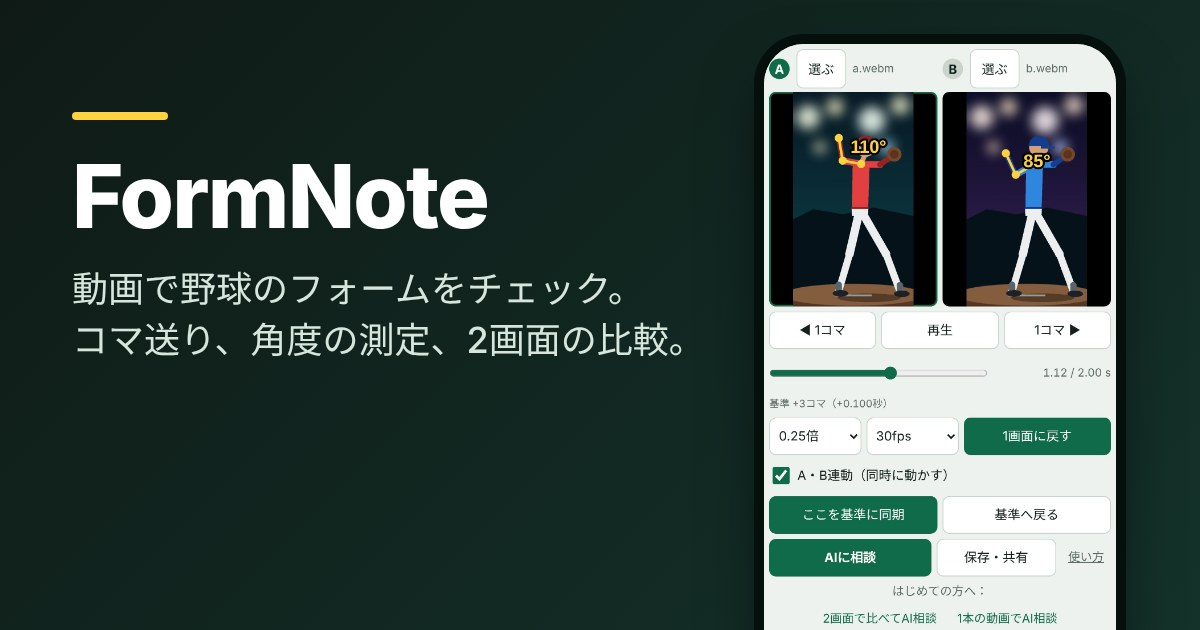
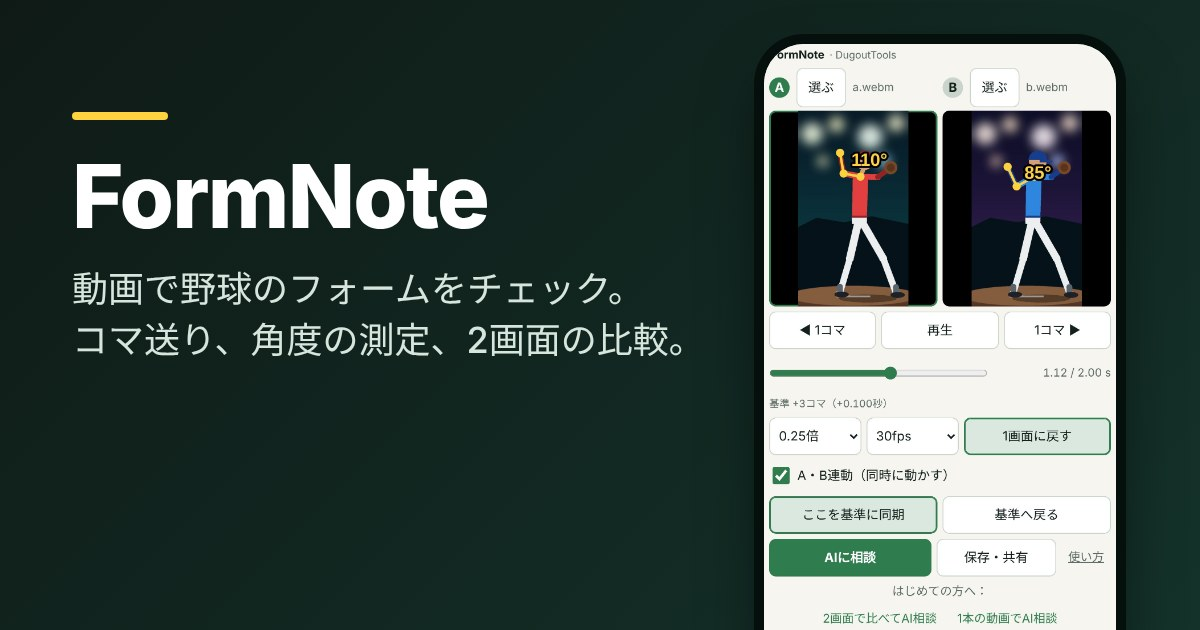
Add files via upload

diff --git a/index.html b/index.html
@@ -15,10 +15,10 @@
 <meta property="og:locale" content="ja_JP">
 <meta name="twitter:card" content="summary_large_image">
 <style>
-:root{--bg:#eef2ee;--panel:#fff;--line:#c9d4cc;--ink:#14201c;--mute:#5b6d64;--acc:#0f6b4a;--accInk:#fff;
+:root{--bg:#f6f5f0;--panel:#fff;--line:#c9d4cc;--ink:#14201c;--mute:#5b6d64;--acc:#2f7d4f;--accInk:#fff;
 box-sizing:border-box;padding-top:env(safe-area-inset-top,0px);padding-bottom:env(safe-area-inset-bottom,0px);color-scheme:light}
-@media (prefers-color-scheme:dark){:root:not([data-theme="light"]){--bg:#0f1a16;--panel:#18251f;--line:#2b3d35;--ink:#e6efe9;--mute:#93a79c;--acc:#ffd23f;--accInk:#14201c;color-scheme:dark}}
-:root[data-theme="dark"]{--bg:#0f1a16;--panel:#18251f;--line:#2b3d35;--ink:#e6efe9;--mute:#93a79c;--acc:#ffd23f;--accInk:#14201c;color-scheme:dark}
+@media (prefers-color-scheme:dark){:root:not([data-theme="light"]){--bg:#0f1a16;--panel:#18251f;--line:#2b3d35;--ink:#e6efe9;--mute:#93a79c;--acc:#58b87e;--accInk:#14201c;color-scheme:dark}}
+:root[data-theme="dark"]{--bg:#0f1a16;--panel:#18251f;--line:#2b3d35;--ink:#e6efe9;--mute:#93a79c;--acc:#58b87e;--accInk:#14201c;color-scheme:dark}
 html,body{height:100%;overscroll-behavior:none}
 body{margin:0;background:var(--bg);color:var(--ink);font:15px/1.4 "Hiragino Sans","Noto Sans JP","Yu Gothic",system-ui,sans-serif;display:flex;flex-direction:column;gap:6px;padding:6px;box-sizing:border-box}
 .panes{display:grid;grid-template-columns:1fr;gap:6px;flex:1;min-height:0}
@@ -48,7 +48,8 @@ canvas{position:absolute;inset:0;width:100%;height:100%;touch-action:none}
 .empty{position:absolute;inset:0;margin:0;display:grid;place-items:center;text-align:center;color:#9aa;padding:1rem;pointer-events:none}
 .row{display:flex;flex-wrap:wrap;gap:6px;align-items:center}
 .btn,select{background:var(--panel);color:var(--ink);border:1px solid var(--line);border-radius:8px;padding:0 .8rem;font:inherit;min-height:44px;display:inline-flex;align-items:center;cursor:pointer}
-.btn.on{background:var(--acc);color:var(--accInk);border-color:var(--acc)}
+.btn.pri{background:var(--acc);color:var(--accInk);border-color:var(--acc)}
+.btn.on{background:color-mix(in srgb,var(--acc) 18%,var(--panel));color:var(--ink);border-color:var(--acc);box-shadow:inset 0 0 0 1px var(--acc)}
 .btn:focus-visible,select:focus-visible,input:focus-visible{outline:2px solid var(--acc);outline-offset:2px}
 input[type=color]{width:44px;height:44px;padding:2px;border:1px solid var(--line);border-radius:8px;background:var(--panel)}
 input[type=range]{flex:1;min-width:120px;accent-color:var(--acc);height:44px}
@@ -101,25 +102,27 @@ details.draw:not([open]) .g-tools,details.draw:not([open]) .g-edit{display:none}
 
 .g-tut{grid-area:tut;display:flex;flex-wrap:wrap;justify-content:center;align-items:center;gap:0 4px;font-size:14px;color:var(--mute)}
 .g-tut .tl{flex-basis:100%;text-align:center;margin-top:2px}.g-tut .lnk{padding:0 10px}
-.g-tut .lnk{background:none;border:0;font:inherit;font-size:14px;cursor:pointer;color:var(--accent,#0f6b4b);min-height:44px}
+.g-tut .lnk{background:none;border:0;font:inherit;font-size:14px;cursor:pointer;color:var(--acc);min-height:44px}
 #tutmask{position:fixed;z-index:30;border-radius:10px;box-shadow:0 0 0 9999px rgba(0,0,0,.6);outline:3px solid #ffd23f;pointer-events:none;transition:all .2s}
-#tutcard{position:fixed;left:12px;right:12px;max-width:520px;margin:0 auto;z-index:31;background:#fff;color:#1b2b24;border-radius:12px;padding:14px 16px;box-shadow:0 6px 24px rgba(0,0,0,.4);font-size:15px;line-height:1.6}
+#tutcard{position:fixed;left:12px;right:12px;max-width:520px;margin:0 auto;z-index:31;background:#2f7d4f;color:#fff;border-radius:12px;padding:14px 16px;box-shadow:0 6px 24px rgba(0,0,0,.4);font-size:15px;line-height:1.6}
 #tutcard h3{margin:0 0 4px;font-size:16px}
 #tutcard p{margin:0 0 10px;line-height:1.7;word-break:auto-phrase;text-wrap:pretty;line-break:strict}
 #tutcard .row{display:flex;gap:8px;align-items:center}
-#tutcard .row .grow{flex:1;font-size:12px;color:#5b6b63}
-#tutcard button{color:#1b2b24;min-height:44px;padding:0 16px;border-radius:8px;border:1px solid #c9d3cd;background:#fff;font:inherit;cursor:pointer}
-#tutcard button.go{background:#0f6b4b;color:#fff !important;border-color:#0f6b4b;font-weight:700}
+#tutcard .row .grow{flex:1;font-size:12px;color:rgba(255,255,255,.85)}
+#tutcard button{color:#fff;min-height:44px;padding:0 16px;border-radius:8px;border:1px solid #fff;background:transparent;font:inherit;cursor:pointer}
+#tutcard button.go{background:#fff;color:#2f7d4f !important;border-color:#fff;font-weight:700}
 #tutcard button:disabled{opacity:.4}
-#tutbn{max-width:640px;margin:0 auto 6px;background:#0f6b4b;color:#fff;border-radius:12px;padding:10px 12px;display:flex;gap:8px;align-items:center;font-size:14px;box-shadow:0 4px 16px rgba(0,0,0,.3)}
+#tutbn{max-width:640px;margin:0 auto 6px;background:#2f7d4f;color:#fff;border-radius:12px;padding:10px 12px;display:flex;gap:8px;align-items:center;font-size:14px;box-shadow:0 4px 16px rgba(0,0,0,.3)}
 #tutbn span{flex:1}.nb{white-space:nowrap}#tutbn button{min-height:44px;border-radius:8px;border:1px solid #fff;background:transparent;color:#fff;font:inherit;padding:0 12px;cursor:pointer}
 #tutbn[hidden],#tutmask[hidden],#tutcard[hidden]{display:none!important}
-#tutbn button.go{background:#fff;color:#0f6b4b;font-weight:700}
+#tutbn button.go{background:#fff;color:#2f7d4f;font-weight:700}
+.brand{display:flex;gap:6px;align-items:baseline;font-size:12px;line-height:1.2;color:var(--mute);padding:0 2px}.brand b{color:var(--ink);font-size:13px}
 .g-sup{text-align:center}.g-sup[hidden]{display:none}.g-sup .lnk{display:inline-block;min-height:44px}
-@media (orientation:landscape) and (max-height:560px){.g-sup{display:none}}
+@media (orientation:landscape) and (max-height:560px){.g-sup,.brand{display:none}}
 </style>
 </head>
 <body>
+<div class="brand"><b>FormNote</b><span>· DugoutTools</span></div>
 <div id="tutbn" hidden><span><span class="nb">はじめての方へ：</span><span class="nb">動画を比べてAIに相談するまでを</span><span class="nb">案内します</span></span><button class="go" id="tutgo">見てみる</button><button id="tutno" aria-label="閉じる">×</button></div>
 <div class="panes" id="panes"></div>
 
@@ -148,7 +151,7 @@ details.draw:not([open]) .g-tools,details.draw:not([open]) .g-edit{display:none}
     <span class="anc" hidden><button class="btn" id="anchor" disabled>ここを基準に同期</button><button class="btn" id="goanchor" disabled>基準へ戻る</button></span>
   </div>
   <div class="g-act">
-    <button class="btn on" id="aimain">AIに相談</button>
+    <button class="btn pri" id="aimain">AIに相談</button>
     <button class="btn" id="snap">保存・共有</button>
     <a class="lnk" href="help.html" target="_blank" rel="noopener">使い方</a>
   </div>
@@ -167,7 +170,7 @@ details.draw:not([open]) .g-tools,details.draw:not([open]) .g-edit{display:none}
       <span class="hintline" id="toolhint">2点をドラッグして線を引く</span>
     </div>
   </details>
-  <div class="g-sup" hidden><a class="lnk" id="supportlink" href="#" target="_blank" rel="noopener">☕ 開発を支援する</a></div>
+  <div class="g-sup" hidden><a class="lnk" id="supportlink" href="#" target="_blank" rel="noopener">☕ DugoutToolsを応援する</a></div>
 </div>
 
 <div id="tutmask" hidden></div><div id="tutcard" hidden role="dialog" aria-live="polite"></div>
@@ -175,12 +178,12 @@ details.draw:not([open]) .g-tools,details.draw:not([open]) .g-edit{display:none}
   <div class="seg"><button class="btn on" id="m1">いまの場面</button><button class="btn" id="m4">前後4枚</button><label id="ivw" hidden>間隔 <select id="burstiv"><option value="1">1コマ</option><option value="2">2コマ</option><option value="3">3コマ</option><option value="5" selected>5コマ</option><option value="10">10コマ</option><option value="15">15コマ</option><option value="30">30コマ</option></select></label></div>
   <img id="snapimg" alt="静止画">
   <p class="hint" id="snaphint">画像を長押しして保存できます。</p>
-  <div class="row" style="justify-content:center"><button class="btn on" id="snapshare" hidden>共有する</button><button class="btn" id="snapclose">閉じる</button></div>
+  <div class="row" style="justify-content:center"><button class="btn pri" id="snapshare" hidden>共有する</button><button class="btn" id="snapclose">閉じる</button></div>
   <div id="aipanel" hidden>
     <div class="row" style="justify-content:center"><select id="aikind"><option>打者（スイング）</option><option>投手（投球）</option></select><input id="aictx" type="text" maxlength="80" placeholder="年齢・左右・悩み"></div>
     <select id="aipair" hidden><option value="">A・Bの関係：指定しない</option><option value="self">どちらも自分（日付や調子の比較）</option><option value="AM">Aが自分・Bがお手本</option><option value="MA">Aがお手本・Bが自分</option></select>
     <textarea id="aitext" rows="6" aria-label="AIへの質問文"></textarea>
-    <button class="btn on" id="aisend">質問文をコピーして、AIアプリに送る</button>
+    <button class="btn pri" id="aisend">質問文をコピーして、AIアプリに送る</button>
     <div id="aimsg" role="status"></div>
   </div>
 </div>

diff --git a/help.html b/help.html
@@ -5,8 +5,8 @@
 <meta name="viewport" content="width=device-width, initial-scale=1">
 <title>FormNoteの使い方</title>
 <style>
-:root{--bg:#eef2ee;--panel:#fff;--line:#c9d4cc;--ink:#14201c;--mute:#4f6158;--acc:#0f6b4a;--accInk:#fff;color-scheme:light}
-@media (prefers-color-scheme:dark){:root:not([data-theme="light"]){--bg:#0f1a16;--panel:#18251f;--line:#2b3d35;--ink:#e6efe9;--mute:#9db0a5;--acc:#ffd23f;--accInk:#14201c;color-scheme:dark}}
+:root{--bg:#f6f5f0;--panel:#fff;--line:#c9d4cc;--ink:#14201c;--mute:#4f6158;--acc:#2f7d4f;--accInk:#fff;color-scheme:light}
+@media (prefers-color-scheme:dark){:root:not([data-theme="light"]){--bg:#0f1a16;--panel:#18251f;--line:#2b3d35;--ink:#e6efe9;--mute:#9db0a5;--acc:#58b87e;--accInk:#14201c;color-scheme:dark}}
 *{box-sizing:border-box}
 body{margin:0;background:var(--bg);color:var(--ink);font:17px/1.7 system-ui,-apple-system,"Segoe UI",Roboto,"Hiragino Sans","Noto Sans JP",sans-serif}
 main{word-break:auto-phrase;line-break:strict;text-wrap:pretty}
@@ -105,9 +105,9 @@ footer{margin-top:2.4rem;color:var(--mute);font-size:.92rem}
 </ul>
 
 
-<h2>開発を支援する</h2>
+<h2>DugoutToolsを応援する</h2>
 <p>FormNoteは、無料で使えるツールです。役に立ったと感じたら、コーヒー1杯分の支援をいただけると、開発の励みになります（任意です。支援しなくても、すべての機能をお使いいただけます）。</p>
-<a class="btn" href="https://buymeacoffee.com/formnote" target="_blank" rel="noopener">☕ 開発を支援する</a>
+<a class="btn" href="https://buymeacoffee.com/formnote" target="_blank" rel="noopener">☕ DugoutToolsを応援する</a>
 
 <h2>よくある質問</h2>
 <details><summary>動画はどこかにアップロードされますか？</summary><p>いいえ。動画はブラウザの中で、お使いの端末の上だけで処理されます。サーバーには送られません。</p></details><details><summary>保存した画像から、アプリを開けますか？</summary><p>はい。同じスマホで保存した画像を開き、QRコードを長押しするか、Googleフォトやレンズで検出されたリンクをタップしてください。別のスマホのカメラで読み取ることもできます。QRコードの横に書かれたリンクは、画像の一部なので、タップしても開きません。QRコードは、保存した画像でも、スクリーンショットでも使えます。ただし、画像を小さく縮小しすぎると、読み取れなくなります。<b>共有する</b>で送った場合は、リンクも文章として一緒に送られ、タップで開けるチャットアプリもあります。</p></details><details><summary>「共有する」ボタンが出ません。</summary><p>画像の共有に対応しているブラウザでだけ表示されます。出ないときは、画像を長押しして保存するか、スクリーンショットを撮って、その画像を送ってください。</p></details><details><summary>はじめてで、使い方がわかりません</summary><p>アプリの画面の下の「はじめての方へ」に、2つのガイドがあります。「1本の動画でAI相談」は、動画を選ぶところから、AIアプリに送るところまで。「2画面で比べてAI相談」は、2つの動画を並べ、基準をそろえてから、AIアプリに送るところまで。どちらも画面を指しながら案内します。初めて開いたときにも、案内のお知らせが出ます。</p></details><details><summary>保存した画像には何が入りますか？</summary><p><b>保存・共有</b>の画像は、見ていた画面のコマに、書き込みと角度が重なった画像です。<b>AIに相談</b>の画像には、書き込みは入りません。画像の下の帯には、アプリの名前、リンク、QRコードが入ります。</p></details><details><summary>動画の読み込みに時間がかかります。</summary><p>長い4K動画など、大きなファイルは開くのに時間がかかることがあります。1080pで撮影するか、必要な部分だけに切り取ると軽くなります。</p></details><details><summary>動画が再生できません。</summary><p>スマホの動画は、端末によって再生できない形式があります。特に、iPhoneのHEVC（H.265）形式の動画が当てはまります。iPhoneでは、<b>設定 → カメラ → フォーマット → 互換性優先</b>にしてから撮影し直すか、H.264のMP4に変換してから、もう一度選んでください。</p></details><details><summary>書き込みは、動画のコマに付いてきますか？</summary><p>いいえ。書き込みは、コマではなく画面の位置に固定されます。コマ送りをしても同じ場所に残るので、固定した線に対して体の動きを比べられます。書き込みは画面ごとに別々に保存され、別の動画を選ぶと消えます。</p></details><details><summary><span class="nb">1コマ</span>ずつ進みません。</summary><p>fpsの設定を確認してください。撮影したコマ数に合わせます。動画の実際のコマ数より大きい値にすると、1回で<span class="nb">1コマ</span>より少ししか進みません。</p></details><details><summary>動画を選ぶとき、いつも同じフォルダに戻ってしまいます。</summary><p>ファイルを選ぶ画面は、アプリではなくスマホが決めています。選ぶ画面の<b>最近</b>や<b>動画</b>の分類を使うと、フォルダをたどらずに動画を探せます。</p></details><details><summary>書き込みは残りますか？</summary><p>ページを開いている間は残ります。ページを読み込み直したり、別の動画を選んだりすると消えます。残したいときは<b>画像を保存</b>を使ってください。</p></details>
